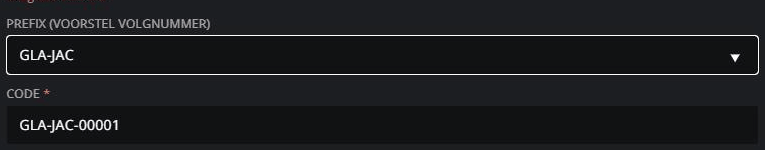
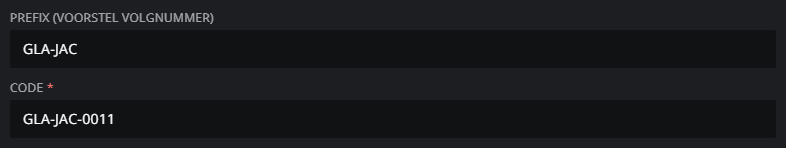
docs: screenshots kunstwerken opnieuw gemaakt na de codewijziging
De drie bestaande screenshots toonden nog vijfcijferige codes. Het voorstel
bij prefix GLA-JAC is GLA-JAC-0011 en niet GLA-JAC-0001, want die reeks
loopt al tot 0010; het bijschrift zei iets anders dan het plaatje en is
daarop aangepast.

Nieuw: kunstwerken-opslaan.png bij de subsectie "Als opslaan niet lukt", die
tot nu toe alleen proza had terwijl juist dat scherm veranderd is.

diff --git a/src/components/beheer/documentatie/chapters/KunstwerkenChapter.tsx b/src/components/beheer/documentatie/chapters/KunstwerkenChapter.tsx
@@ -28,8 +28,8 @@ export function KunstwerkenChapter() {
           />
           <Screenshot
             src="/documentatie/kunstwerken-code-na.png"
-            alt="Het veld Prefix met GLA-JAC gekozen, en de code GLA-JAC-0001 automatisch voorgesteld"
-            caption="2. Prefix &quot;GLA-JAC&quot; gekozen — de code GLA-JAC-0001 wordt automatisch voorgesteld"
+            alt="Het veld Prefix met GLA-JAC gekozen, en de code GLA-JAC-0011 automatisch voorgesteld"
+            caption="2. Prefix &quot;GLA-JAC&quot; gekozen — de code GLA-JAC-0011 wordt automatisch voorgesteld, het eerstvolgende vrije nummer"
           />
         </div>
         <P>
@@ -96,6 +96,11 @@ export function KunstwerkenChapter() {
           wordt nog geüpload&quot;, zonder tabblad — even wachten dus. Zodra het probleem is
           opgelost verdwijnt die regel; is de lijst leeg, dan kun je opslaan.
         </P>
+        <Screenshot
+          src="/documentatie/kunstwerken-opslaan.png"
+          alt="De onderrand van het kunstwerk-formulier met de grijze knop Opslaan en daarboven de lijst &quot;Opslaan kan nog niet&quot; met vier regels: foto ontbreekt, formaat niet gekozen, kunstenaar niet gekozen en Nederlandse omschrijving ontbreekt, elk met het tabblad erachter"
+          caption="De code is hier al ingevuld, dus die regel is verdwenen; de vier andere blijven staan tot ze ingevuld zijn"
+        />
         <P>
           Gaat het bij het opslaan zelf mis, dan verschijnt er een melding die de reden zelf
           noemt — bijvoorbeeld dat de code al bestaat, dat de code vastligt omdat er al besteld

diff --git a/scripts/check-screenshot-freshness.ts b/scripts/check-screenshot-freshness.ts
@@ -6,6 +6,12 @@ export const SCREENSHOT_BRONNEN: Record<string, string[]> = {
   'public/documentatie/kunstwerken.png': ['src/components/beheer/KunstwerkenSection.tsx', 'src/components/ProductModal.tsx'],
   'public/documentatie/kunstwerken-code-voor.png': ['src/components/beheer/KunstwerkenSection.tsx'],
   'public/documentatie/kunstwerken-code-na.png': ['src/components/beheer/KunstwerkenSection.tsx'],
+  // Ook Modal.tsx: de opsomming staat in het footergebied, dus een wijziging aan die
+  // voettekst verandert dit plaatje net zo goed als een wijziging aan de lijst zelf.
+  'public/documentatie/kunstwerken-opslaan.png': [
+    'src/components/beheer/KunstwerkenSection.tsx',
+    'src/components/Modal.tsx',
+  ],
   'public/documentatie/kunstenaars.png': ['src/components/beheer/KunstenaarsSection.tsx'],
   'public/documentatie/drukkers.png': ['src/components/beheer/DrukkerModal.tsx'],
   'public/documentatie/drukkers-zending-bekijken.png': ['src/components/beheer/ZendingBekijkenModal.tsx'],

diff --git a/tests/components/beheer/documentatie/chapterScreenshots.test.tsx b/tests/components/beheer/documentatie/chapterScreenshots.test.tsx
@@ -44,6 +44,11 @@ describe('hoofdstuk-screenshots', () => {
     expectImageOnDisk(container, '/documentatie/kunstwerken-code-na.png');
   });
 
+  it('KunstwerkenChapter toont de opsomming waarom opslaan nog niet kan', () => {
+    const { container } = render(<KunstwerkenChapter />);
+    expectImageOnDisk(container, '/documentatie/kunstwerken-opslaan.png');
+  });
+
   it('DrukkersChapter toont een screenshot van een bekeken zending', () => {
     const { container } = render(<DrukkersChapter />);
     expectImageOnDisk(container, '/documentatie/drukkers-zending-bekijken.png');
